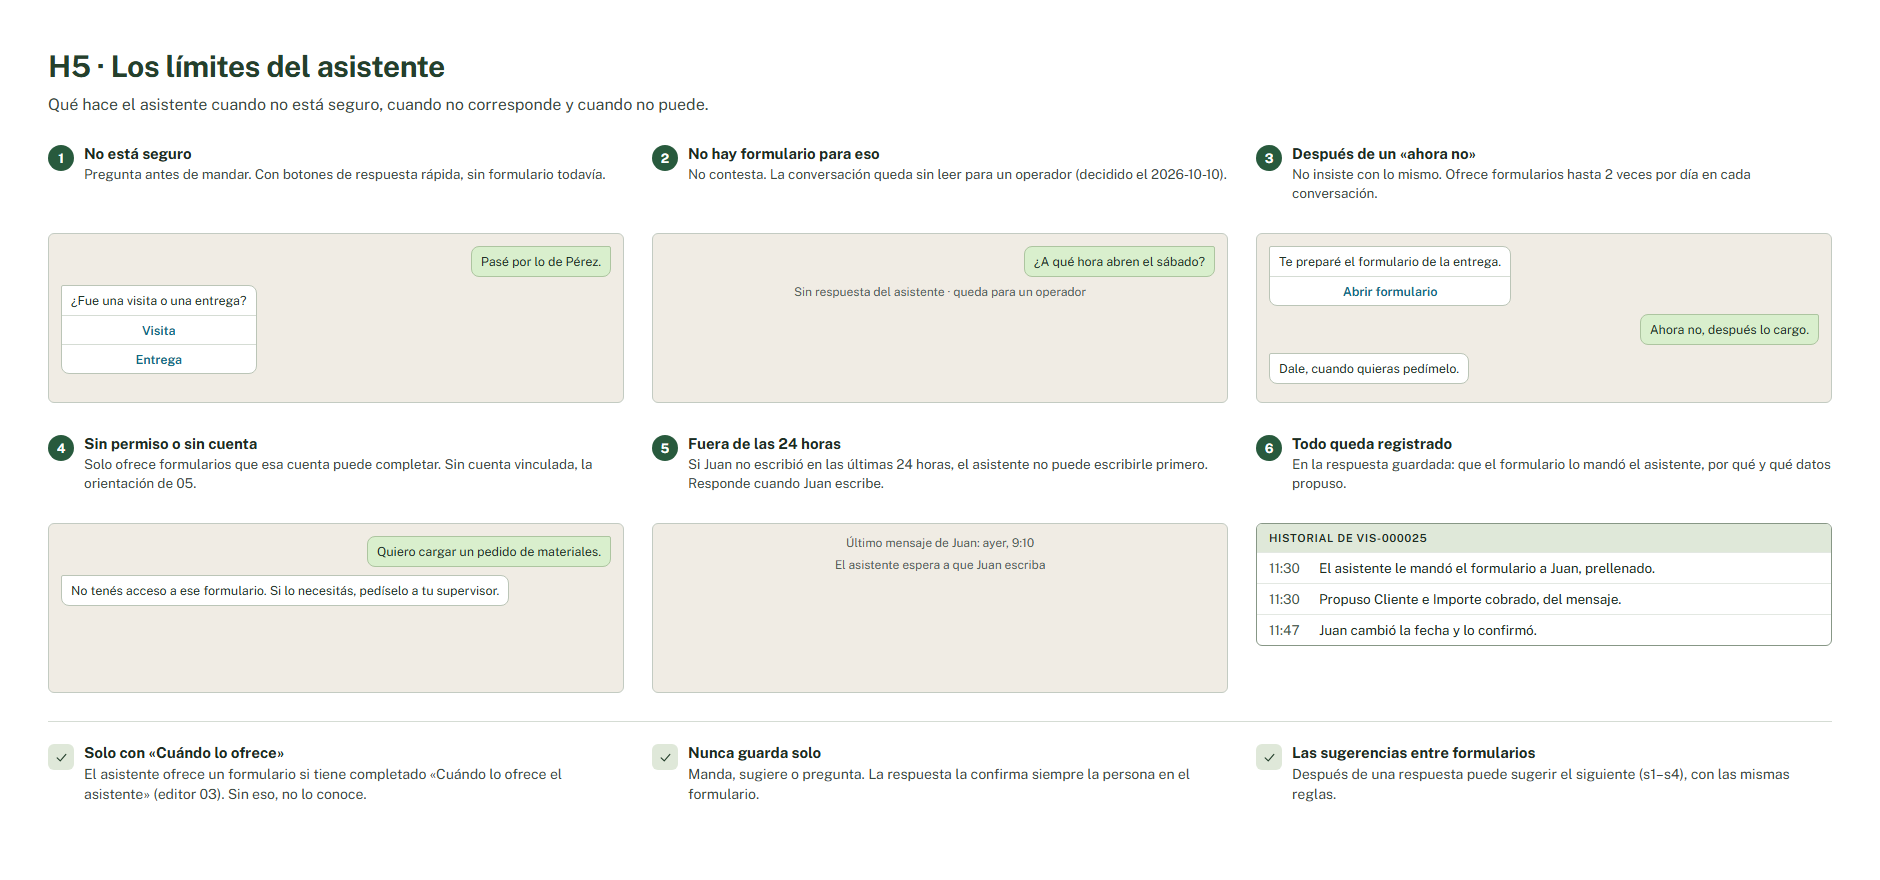
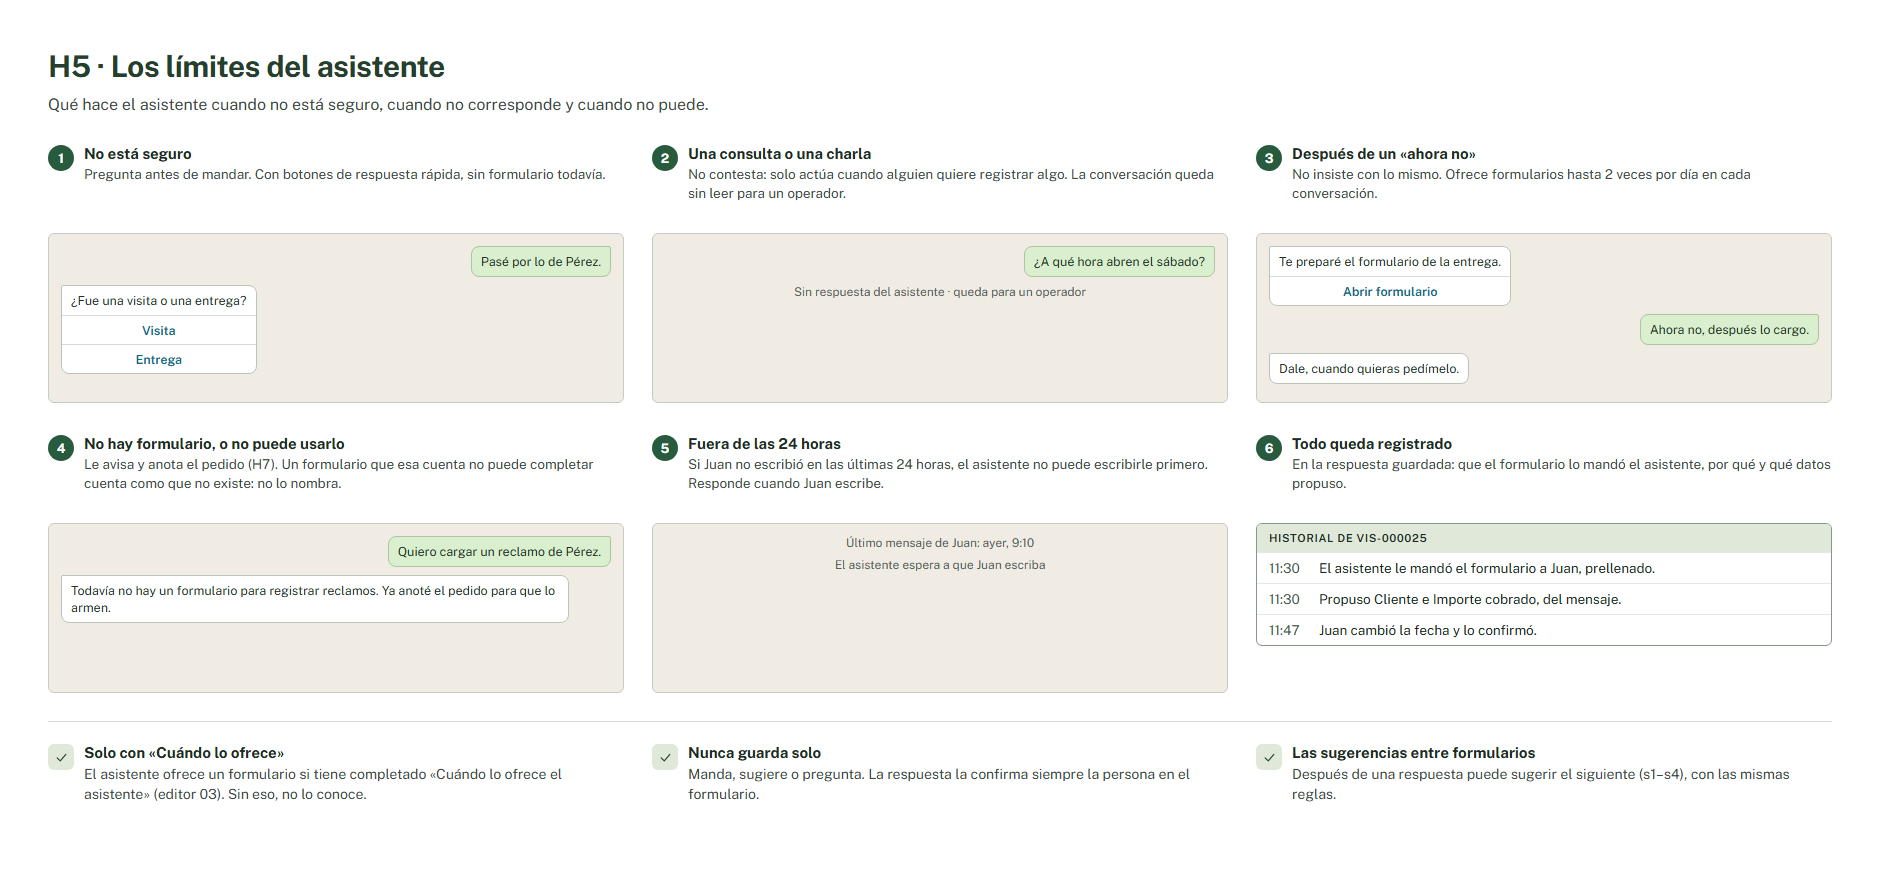
docs(formularios): registrar T1 y T3 con archivos, H5 ajustado y H6 y H7

Changed region(s): [[0.0309, 0.6136, 0.3085, 0.7057], [0.3702, 0.1534, 0.6479, 0.2455], [0.0309, 0.4909, 0.3085, 0.5523]]

diff --git a/docs/design/formularios-whatsapp.md b/docs/design/formularios-whatsapp.md
@@ -153,9 +153,9 @@ sin aprobación, PDF ni asistente. Cargar desde la web queda para después (deci
 
 | Captura | Qué define |
 | --- | --- |
-| [T1 · La planilla](evidence/formularios-whatsapp/pla-t1-planilla.png) | «Respuestas» en el panel, columnas fijas (número, recibida, cargó) y una por pregunta de todas las versiones; «—» si no existía y «Sin respuesta» si no se contestó. |
+| [T1 · La planilla](evidence/formularios-whatsapp/pla-t1-planilla.png) | «Respuestas» en el panel, columnas fijas (número, recibida, cargó) y una por pregunta de todas las versiones; «—» si no existía y «Sin respuesta» si no se contestó. Fotos: primera miniatura y cantidad, abre el visor de F4; documentos: tipo y cantidad. Con muchas preguntas se desplaza a lo ancho y «Columnas» oculta las que sobran (elegido el 2026-10-16). |
 | [T2 · Más filtros](evidence/formularios-whatsapp/pla-t2-filtros.png) | Un filtro por pregunta según su tipo, con conteos del servidor; versión del formulario; búsqueda privada fuera de la dirección. |
-| [T3 · Una respuesta](evidence/formularios-whatsapp/pla-t3-respuesta.png) | Lo que respondió con las preguntas de su versión, de dónde vino, historial y anterior/siguiente dentro de la planilla. |
+| [T3 · Una respuesta](evidence/formularios-whatsapp/pla-t3-respuesta.png) | Lo que respondió con las preguntas de su versión, de dónde vino, historial y anterior/siguiente dentro de la planilla. A todo el ancho, con galería de fotos que abre el visor y documentos con descarga (elegido el 2026-10-16). |
 | [T4 · Estados y casos](evidence/formularios-whatsapp/pla-t4-estados.png) | Carga, sin respuestas, sin coincidencias, error, muchos formularios, sin permiso, respuesta que no está y pregunta que cambió de tipo. |
 
 Etapa 4, reglas, aprobación, PDF y avisos (2026-10-10), sobre el [resumen de la Etapa 4](../../../ArquitecturaBase/docs/plans/formularios/etapa-4-reglas-aprobacion-pdf.md). Decidido el mismo día: después
@@ -172,9 +172,10 @@ que llegó; nadie aprueba lo que cargó. Los avisos fuera de las 24 horas necesi
 | [G6 · Lo que recibe el empleado](evidence/formularios-whatsapp/reg-g6-celular.png) | Confirmación al recibir, aviso con el PDF al aprobar, motivo al rechazar, también en inglés. |
 
 Etapa 5, el asistente (2026-10-10), sobre el [resumen de la Etapa 5](../../../ArquitecturaBase/docs/plans/formularios/etapa-5-asistente.md). También son de esta etapa «Cuándo lo ofrece» (03),
-el recorrido con asistente (05) y las sugerencias entre formularios (s1–s4). Decidido el mismo día: con un mensaje que no
-es un formulario, el asistente no contesta y la conversación queda para un operador; ofrece formularios hasta 2 veces por
-día en cada conversación; cambiar el modo pide el permiso nuevo «Configurar el asistente», que tiene Admin.
+el recorrido con asistente (05) y las sugerencias entre formularios (s1–s4). Decidido el 2026-10-10 y el 2026-10-11: una
+consulta o una charla no se contesta y queda para un operador; si alguien quiere registrar algo y no hay un formulario que
+pueda completar, el asistente le avisa y anota el pedido sin nombrar formularios ajenos; ofrece formularios hasta 2 veces
+por día en cada conversación; cambiar el modo pide el permiso nuevo «Configurar el asistente», que tiene Admin.
 
 | Captura | Qué define |
 | --- | --- |
@@ -182,7 +183,9 @@ día en cada conversación; cambiar el modo pide el permiso nuevo «Configurar e
 | [H2 · En Atención manual, sugiere](evidence/formularios-whatsapp/asi-h2-sugerencia.png) | La sugerencia arriba del compositor y el diálogo de envío con los datos prellenados que se pueden destildar. |
 | [H3 · Cambiar de modo](evidence/formularios-whatsapp/asi-h3-modos.png) | Confirmación para pasar a Asistente, tomar la atención a mitad de un envío, IA no disponible, chats existentes, marca en la lista y sin permiso. |
 | [H4 · Un catálogo que propone el asistente](evidence/formularios-whatsapp/asi-h4-catalogo.png) | Pedido por WhatsApp, propuesta para revisar en la web y aprobación por una persona. |
-| [H5 · Los límites del asistente](evidence/formularios-whatsapp/asi-h5-limites.png) | Pregunta si no está seguro, no insiste, respeta permisos y 24 horas, y deja todo registrado en la respuesta. |
+| [H5 · Los límites del asistente](evidence/formularios-whatsapp/asi-h5-limites.png) | Pregunta si no está seguro, no contesta consultas ni charla, anota lo que no tiene formulario, no insiste, respeta las 24 horas y deja todo registrado en la respuesta (ajustado el 2026-10-16). |
+| [H6 · Audios en el chat](evidence/formularios-whatsapp/asi-h6-audios.png) | **Para elegir (2026-10-16).** El audio se baja y se pasa a texto; el operador lo escucha con su transcripción y el asistente lo lee como texto. Sin transcripción, queda para un operador; sigue la retención de los mensajes. |
+| [H7 · Formularios que faltan](evidence/formularios-whatsapp/asi-h7-faltan.png) | **Para elegir (2026-10-16).** Los pedidos agrupados por tema, con cuántos, de cuántas personas y cuándo, sin nombres ni mensajes; crear el formulario o descartar. |
 
 Propuesta posterior, en revisión (Etapa del asistente): un formulario puede sugerir otro. No reemplaza a los
 tableros elegidos; el modelo y las reglas están en los
